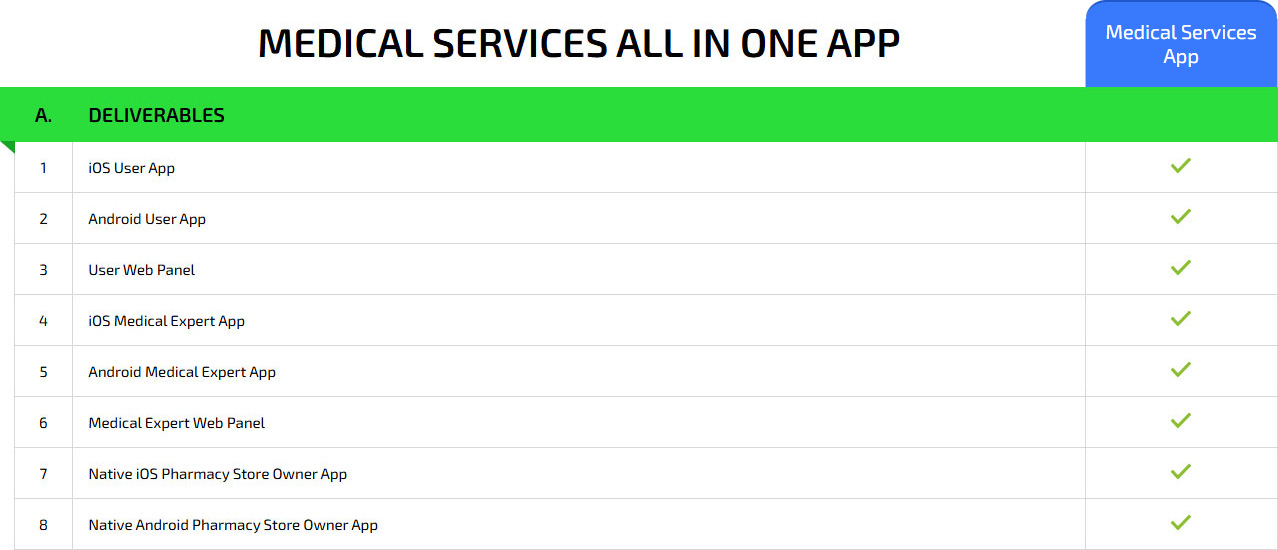
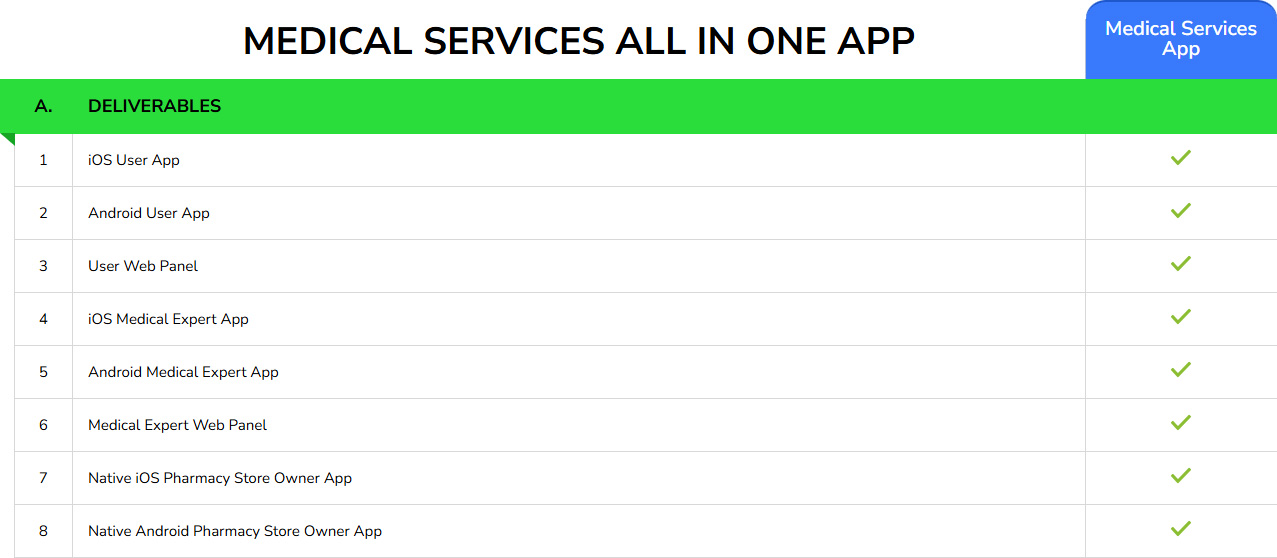
bolt css
bolt css

diff --git a/css/bolt-clone.css b/css/bolt-clone.css
@@ -690,7 +690,8 @@ a.btn-color1:hover {
     background: var(--theme);
 }
 
-.demo-banner h1 {
+.demo-banner h1,
+.demo-banner h2 {
     font-family: var(--common-font);
     font-weight: 700;
     font-size: 32px;
@@ -699,7 +700,8 @@ a.btn-color1:hover {
     letter-spacing: -0.01em;
 }
 
-.demo-banner h1 .accent {
+.demo-banner h1 .accent,
+.demo-banner h2 .accent {
     color: #FFFFFF;
     background: var(--theme);
     padding: 0 8px;
@@ -905,6 +907,7 @@ a.btn-color1:hover {
     border-radius: 12px;
     padding: 20px;
     background-color: var(--theme-medium);
+    max-width: 100%;
 }
 
 .tab__content {
@@ -1452,6 +1455,7 @@ a.btn-color1:hover {
     -moz-border-radius: 12px 12px 0 0;
     -ms-border-radius: 12px 12px 0 0;
     -o-border-radius: 12px 12px 0 0;
+    color: #000;
 }
 .faq_list li p {
     padding: 0 20px;
@@ -1901,9 +1905,13 @@ ul.reviews-list li.morereview a:after {
     }
 
     .TABROW {
-        grid-template-columns: repeat(4, 1fr);
+        display: flex;
+        flex-wrap: wrap;
+        gap: 10px;
     }
-
+    .TABROW .TAB {
+        width: auto;
+    }
     .package-column {
         width: calc(50% - 20px);
         width: -o-calc(50% - 20px);
@@ -1950,7 +1958,7 @@ ul.reviews-list li.morereview a:after {
     .demo-banner { flex-direction: column; align-items: flex-start; padding: 32px 26px; }
     .demo-banner .actions { align-items: flex-start; width: 100%; }
     .demo-banner .btn { width: 100%; justify-content: center; }
-    .demo-banner h1 { font-size: 26px; }
+    .demo-banner h1,.demo-banner h2 { font-size: 26px; }
     [class*="col-"].masonry-block_ {
         width: 100%;
     }
